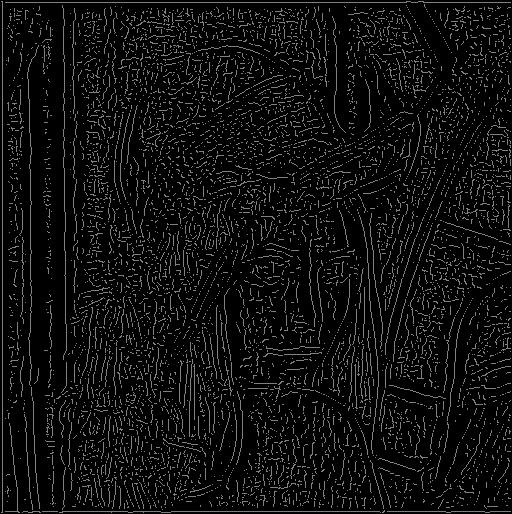
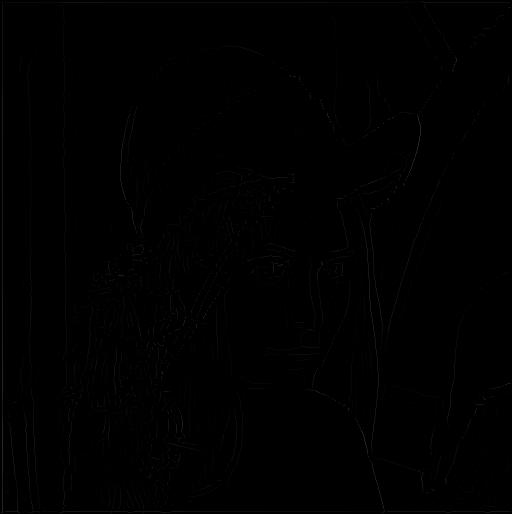
sync

diff --git a/Python/canny edge detector/canny_edge_detector.py b/Python/canny edge detector/canny_edge_detector.py
@@ -74,22 +74,22 @@ for i in range(1,x-1):
     for j in range(1,y-1):
         if(arc[i,j] == 0 or arc[i,j] == 180) :
             if(imgmag[i,j] >imgmag[i,j-1] and imgmag[i,j] > imgmag[i,j+1]) :
-                nms[i,j] = 128
+                nms[i,j] = imgmag[i,j]
             else:
                 nms[i, j] = 0
         if (arc[i, j] == 45 or arc[i, j] == -135):
             if (imgmag[i, j] > imgmag[i-1, j + 1] and imgmag[i, j] > imgmag[i+1, j - 1]):
-                nms[i, j] = 128
+                nms[i, j] = imgmag[i,j]
             else:
                 nms[i, j] = 0
         if (arc[i, j] == 90 or arc[i, j] == -90):
             if (imgmag[i, j] > imgmag[i-1, j ] and imgmag[i, j] > imgmag[i+1, j]):
-                nms[i, j] = 128
+                nms[i, j] = imgmag[i,j]
             else:
                 nms[i, j] = 0
         if (arc[i, j] == 135 or arc[i, j] == -45):
             if (imgmag[i, j] > imgmag[i-1, j - 1] and imgmag[i, j] > imgmag[i+1, j + 1]):
-                nms[i, j] = 128
+                nms[i, j] = imgmag[i,j]
             else:
                 nms[i, j] = 0
 
